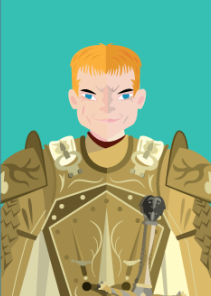
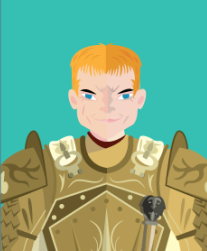
will be re-visiting media queries after re-adjusting all images to fit the container appropriately

diff --git a/style.css b/style.css
@@ -102,7 +102,7 @@ main {
   background-position: center;
   border-radius: 15px;
   transition: .8s ease;
-  /* display: none; */
+  display: none;
 }
 .frontImages:hover{
 box-shadow: 0 0 0 8px #000000;
@@ -197,14 +197,14 @@ transition: .8s ease;
 
  /* ----------- Thinkpad x250 ----------- */
 @media only screen
-  and (min-device-width: 1366px) and (min-device-width: 667px)
+  /* and (min-device-width: 1366px) and (max-device-width: 667px) */
   /* and (min-device-width: 1366px) */
   /* and (min-device-height: 667px) and (min-device-height: 1366px) */
-  /* and (min-width: 1025px) and (max-width: 1280px) */
+  and (max-width: 1366px)
   /* and (min-width: 1366px) and (max-height: 667px) */
   /* and (min-device-width: 1200px) and (max-device-width: 1600px) */
   /* and (-webkit-min-device-pixel-ratio: 1) */
-  and (-webkit-min-device-pixel-ratio: 2)
+  /* and (-webkit-min-device-pixel-ratio: 2) */
   and (orientation: landscape) {
         .title {
           font-size: 100%;
@@ -253,7 +253,7 @@ transition: .8s ease;
 
 /* Landscape */
 @media only screen
-  and (min-device-width: 1024px)
+  and (max-device-width: 1024px)
   and (max-device-height: 768px)
   and (orientation: Landscape) {
     .modalContainer {

diff --git a/index.html b/index.html
@@ -11,7 +11,7 @@
 
   <div id="greetings"></div>
 
-  <div class="modalContainer">
+  <div class="modalContainer hidden">
     <div class="modalText">Congratulations you won!!
       <div class="modalButton">Click to play again!</div>
     </div>
